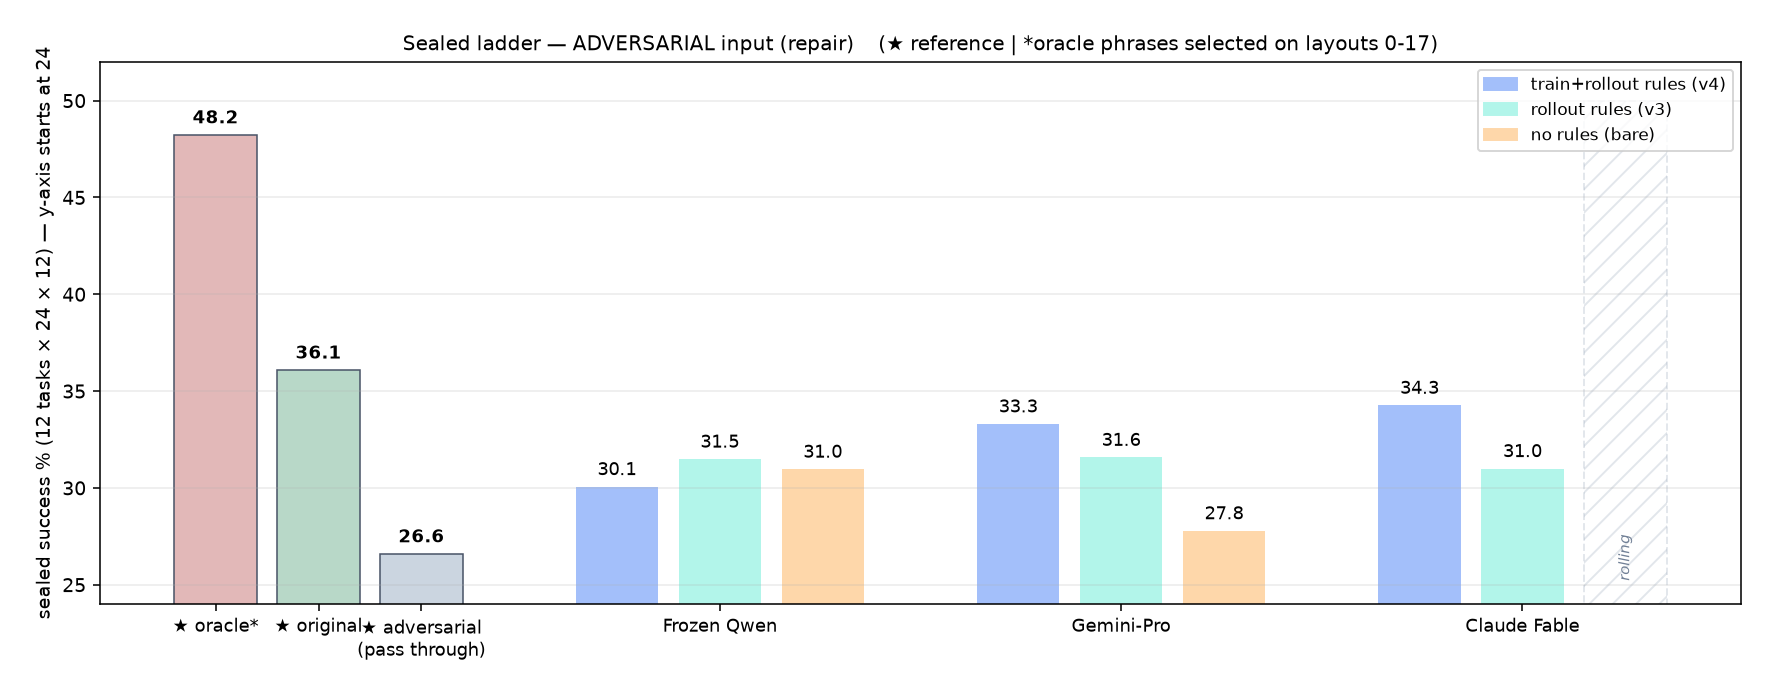
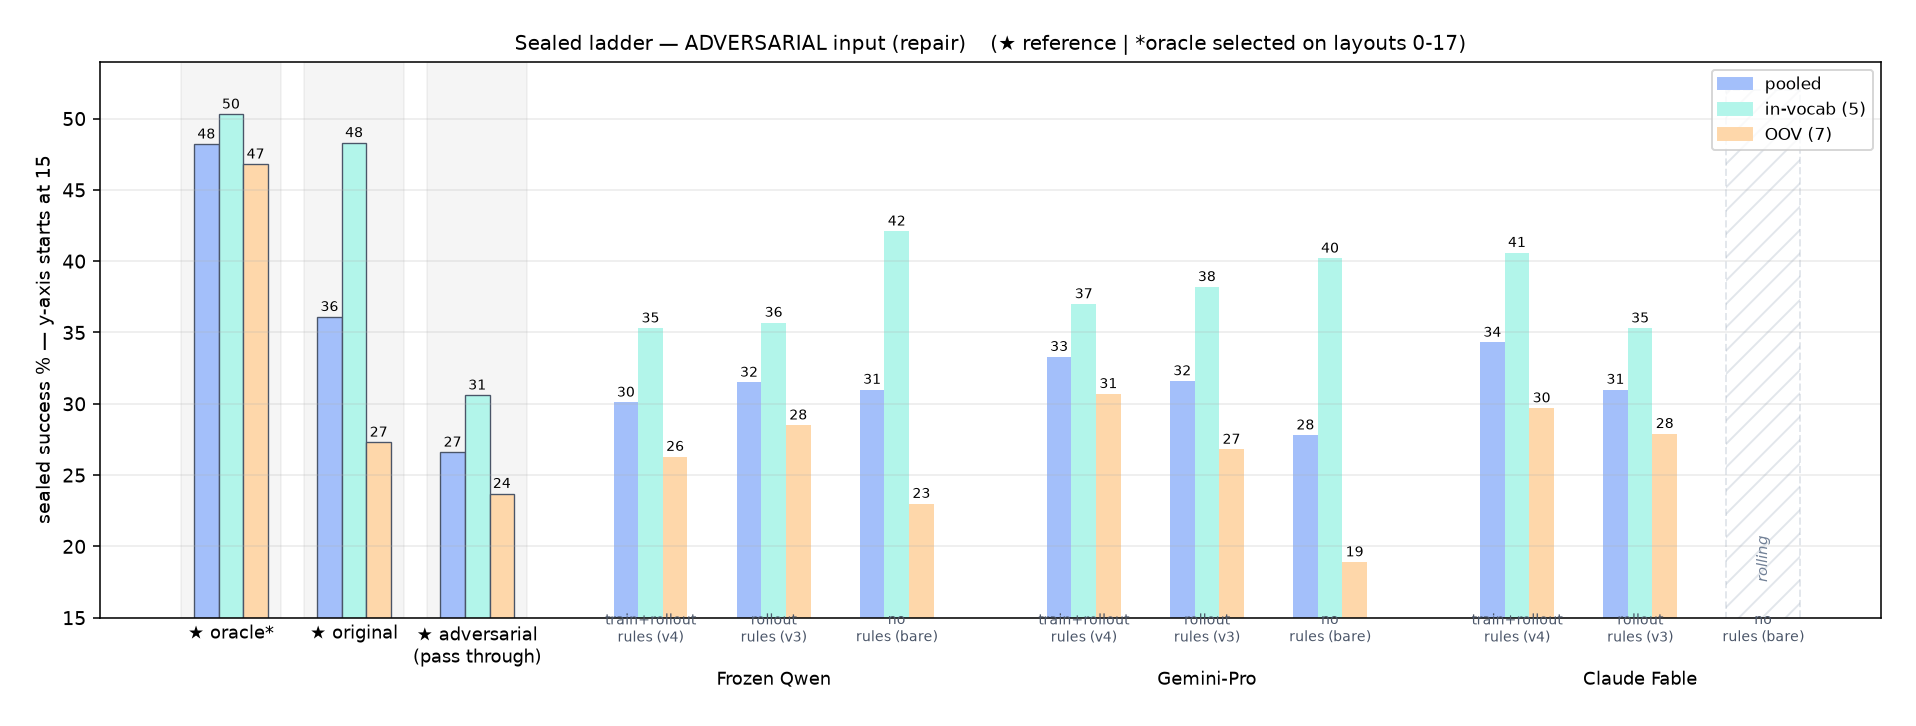
Amendment 15: scope cut, Qwen+think cells, bare-provenance caveat; strata ladder charts

Changed region(s): [[0.0, 0.1506, 0.991, 0.9641], [0.0619, 0.0301, 0.991, 0.3013], [0.0, 0.1205, 0.0619, 0.7834]]

diff --git a/scripts/make_condition_ladders.py b/scripts/make_condition_ladders.py
@@ -1,78 +1,91 @@
 #!/usr/bin/env python3
-"""Sealed ladders, one chart per condition, vertical grouped bars.
-
-Left group: references (oracle / original / adversarial passthrough).
-Then one 3-bar cluster per model: train+rollout rules (v4), rollout rules (v3),
-no rules (bare). Missing cells render as dashed hatched placeholders.
-Pooled sealed values (12 tasks x 24 x 12)."""
+"""Sealed ladders, one chart per condition, vertical bars, each treatment shown
+as a pooled / in-vocab / OOV triplet. References (oracle / original /
+adversarial passthrough) lead; then one cluster per model. Nominal chart has no
+bare slots (user: originals ARE the human baseline). Strata values from the
+sealed per-task tables (audit stratification; 5 in-vocab / 7 OOV tasks)."""
 import matplotlib
 
 matplotlib.use("Agg")
 import matplotlib.pyplot as plt
 
-REFS = [("oracle*", 48.23, "#e2b8b8"), ("original", 36.08, "#b8d8c8"),
-        ("adversarial\n(pass through)", 26.59, "#cbd5e0")]
-
-ROLE = [("train+rollout rules (v4)", "#a3bffa"), ("rollout rules (v3)", "#b2f5ea"),
-        ("no rules (bare)", "#fed7aa")]
+# (pooled, in_vocab, oov)
+REFS = [("oracle*", (48.2, 50.3, 46.8)), ("original", (36.1, 48.3, 27.3)),
+        ("adversarial\n(pass through)", (26.6, 30.6, 23.7))]
 
 DATA = {
     "adversarial": {
-        "Frozen Qwen": [30.06, 31.48, 30.96],
-        "Gemini-Pro": [33.30, 31.57, 27.78],
-        "Claude Fable": [34.26, 30.99, None],  # bare rolling (arm H)
+        "roles": ["train+rollout rules (v4)", "rollout rules (v3)", "no rules (bare)"],
+        "models": {
+            "Frozen Qwen": [(30.1, 35.3, 26.3), (31.5, 35.7, 28.5), (31.0, 42.1, 23.0)],
+            "Gemini-Pro": [(33.3, 37.0, 30.7), (31.6, 38.2, 26.8), (27.8, 40.2, 18.9)],
+            "Claude Fable": [(34.3, 40.6, 29.7), (31.0, 35.3, 27.9), None],
+        },
+        "pending": {("Claude Fable", 2): "rolling"},
     },
     "nominal": {
-        "Frozen Qwen": [27.81, None, None],
-        "Gemini-Pro": [37.18, 34.78, None],
-        "Claude Fable": [37.73, None, None],
+        "roles": ["train+rollout rules (v4)", "rollout rules (v3)"],
+        "models": {
+            "Frozen Qwen": [(27.8, 34.9, 22.7), None],
+            "Gemini-Pro": [(37.2, 46.0, 30.9), (34.8, 42.1, 29.6)],
+            "Claude Fable": [(37.7, 47.6, 30.7), None],
+        },
+        "pending": {},
     },
 }
-PENDING_NOTE = {("adversarial", "Claude Fable", 2): "rolling"}
+STRATA = [("pooled", "#a3bffa"), ("in-vocab (5)", "#b2f5ea"), ("OOV (7)", "#fed7aa")]
+W = 0.27
 
-for cond, models in DATA.items():
-    fig, ax = plt.subplots(figsize=(12.5, 4.8))
+for cond, spec in DATA.items():
+    fig, ax = plt.subplots(figsize=(13.5, 5.0))
     x = 0.0
     ticks, ticklabels = [], []
-    for name, val, col in REFS:
-        ax.bar(x, val, 0.8, color=col, edgecolor="#4a5568", lw=0.8)
-        ax.text(x, val + 0.6, f"{val:.1f}", ha="center", fontsize=9, fontweight="bold")
+    def triplet(x0, vals, ref=False):
+        for j, ((sname, col), v) in enumerate(zip(STRATA, vals if isinstance(vals, tuple) else [])):
+            pass
+    for name, vals in REFS:
+        for j, ((sname, col), v) in enumerate(zip(STRATA, vals)):
+            ax.bar(x + (j - 1) * W, v, W, color=col,
+                   edgecolor="#4a5568", lw=0.7)
+            ax.text(x + (j - 1) * W, v + 0.4, f"{v:.0f}", ha="center", fontsize=7)
+        ax.axvspan(x - 0.55, x + 0.55, color="#000000", alpha=0.04, zorder=0)
         ticks.append(x)
         ticklabels.append("★ " + name)
-        x += 1.0
-    x += 0.9  # gap after references
-    first = True
-    for model, vals in models.items():
-        cx = []
-        for i, ((role, col), val) in enumerate(zip(ROLE, vals)):
-            if val is None:
-                ax.bar(x, 50, 0.8, color="none", edgecolor="#a0aec0", ls="--", lw=1.0,
-                       hatch="//", alpha=0.30)
-                note = PENDING_NOTE.get((cond, model, i), "not yet run")
-                ax.text(x, 25.2, note, ha="center", va="bottom", fontsize=7.5,
+        x += 1.35
+    x += 0.55
+    for model, cells in spec["models"].items():
+        cxs = []
+        for i, cell in enumerate(cells):
+            if cell is None:
+                ax.bar(x, 52, 3 * W, color="none", edgecolor="#a0aec0", ls="--",
+                       lw=1.0, hatch="//", alpha=0.30)
+                note = spec["pending"].get((model, i), "not yet run")
+                ax.text(x, 17.5, note, ha="center", va="bottom", fontsize=7.5,
                         color="#718096", style="italic", rotation=90)
             else:
-                ax.bar(x, val, 0.8, color=col, edgecolor="none",
-                       label=role if first else None)
-                ax.text(x, val + 0.6, f"{val:.1f}", ha="center", fontsize=9)
-            cx.append(x)
-            x += 1.0
-        first = False
-        ticks.append(sum(cx) / len(cx))
-        ticklabels.append(model)
-        x += 0.9  # gap between clusters
-    # legend needs all three roles even if first cluster had a placeholder
-    handles = [plt.Rectangle((0, 0), 1, 1, color=c) for _, c in ROLE]
-    ax.legend(handles, [r for r, _ in ROLE], fontsize=8.5, loc="upper right")
+                for j, ((sname, col), v) in enumerate(zip(STRATA, cell)):
+                    ax.bar(x + (j - 1) * W, v, W, color=col)
+                    ax.text(x + (j - 1) * W, v + 0.4, f"{v:.0f}", ha="center", fontsize=7)
+            role = spec["roles"][i]
+            ax.text(x, 15.4, role.replace(" rules", "\nrules"), ha="center", va="top",
+                    fontsize=7.2, color="#4a5568")
+            cxs.append(x)
+            x += 1.35
+        ticks.append(sum(cxs) / len(cxs))
+        ticklabels.append("\n\n" + model)
+        x += 0.7
+    handles = [plt.Rectangle((0, 0), 1, 1, color=c) for _, c in STRATA]
+    ax.legend(handles, [s for s, _ in STRATA], fontsize=8.5, loc="upper right")
     ax.set_xticks(ticks)
     ax.set_xticklabels(ticklabels, fontsize=9.5)
-    ax.set_ylabel("sealed success % (12 tasks × 24 × 12) — y-axis starts at 24")
-    ax.set_ylim(24, 52)
+    ax.tick_params(axis="x", length=0)
+    ax.set_ylabel("sealed success % — y-axis starts at 15")
+    ax.set_ylim(15, 54)
     ax.grid(axis="y", alpha=0.25)
     title_cond = ("ADVERSARIAL input (repair)" if cond == "adversarial"
-                  else "ORIGINAL input (polish)")
-    ax.set_title(f"Sealed ladder — {title_cond}    "
-                 "(★ reference | *oracle phrases selected on layouts 0-17)", fontsize=10.5)
+                  else "ORIGINAL input (polish) — originals reference = the human phrasing")
+    ax.set_title(f"Sealed ladder — {title_cond}    (★ reference | *oracle selected on layouts 0-17)",
+                 fontsize=10.5)
     fig.tight_layout()
     out = f"results/charts/sealed_ladder_{cond}.png"
     fig.savefig(out, dpi=140, bbox_inches="tight", pad_inches=0.25)

diff --git a/results/analysis/PREREG_closing_leg.md b/results/analysis/PREREG_closing_leg.md
@@ -278,3 +278,24 @@ rules) + the full sealed trace + ERT instruction. Notable v1->v2 diffs from
 trace conditioning: "green block"->"green cube" (x2), pepsi gains "yellow";
 coke_on_wheel regressed to "red can in the tire" (brand-drop + double family
 violation) — bare-Claude's untutored noun choices remain the predicted misses.
+
+## Amendment 15 (filed 2026-08-02 ~00:30 UTC)
+1. SCOPE CUT (user): the three bare-nominal cells and the human-phrasing
+   sampled arm are DROPPED — the originals reference is adopted as the human
+   baseline for the nominal condition. The generated-but-never-rolled
+   gemini_pro_bare_nominal phrases are discarded.
+2. Remaining Amendment-14 cells: Qwen+v3-nominal and Claude+v3-nominal only.
+3. NEW CELLS (user-directed): Qwen + rules with ACTUAL reasoning —
+   enable_thinking=TRUE for the frozen 9B executing rules-v4, both conditions
+   (12x24x12). Motivation: the executor-fidelity story predicts thinking helps
+   the UNFAITHFUL executor where it demonstrably did nothing for the faithful
+   one (gemini tournament 0.6pp spread). Predictions: (1) Qwen+v4+think beats
+   no-think Qwen+v4 on both conditions (30.06 ERT / 27.81 nominal); (2) it
+   remains below the strong executors; (3) if it fails to beat no-think, the
+   9B's unfaithfulness is a capacity problem, not a deliberation problem.
+4. PROVENANCE CAVEAT ledgered for the "so high" frozen-Qwen bare-adv bar
+   (30.96): that row was generated under the CoVer prompt (image + trace +
+   CoVer's structured rephrase scaffold — build_sealed_arm_phrases mode
+   'frozen'), NOT the minimal bare template the API bare rows used. The bare
+   column is not protocol-identical across models; the Qwen bar is
+   scaffold-assisted and multimodal. Chart footnote to be added.
